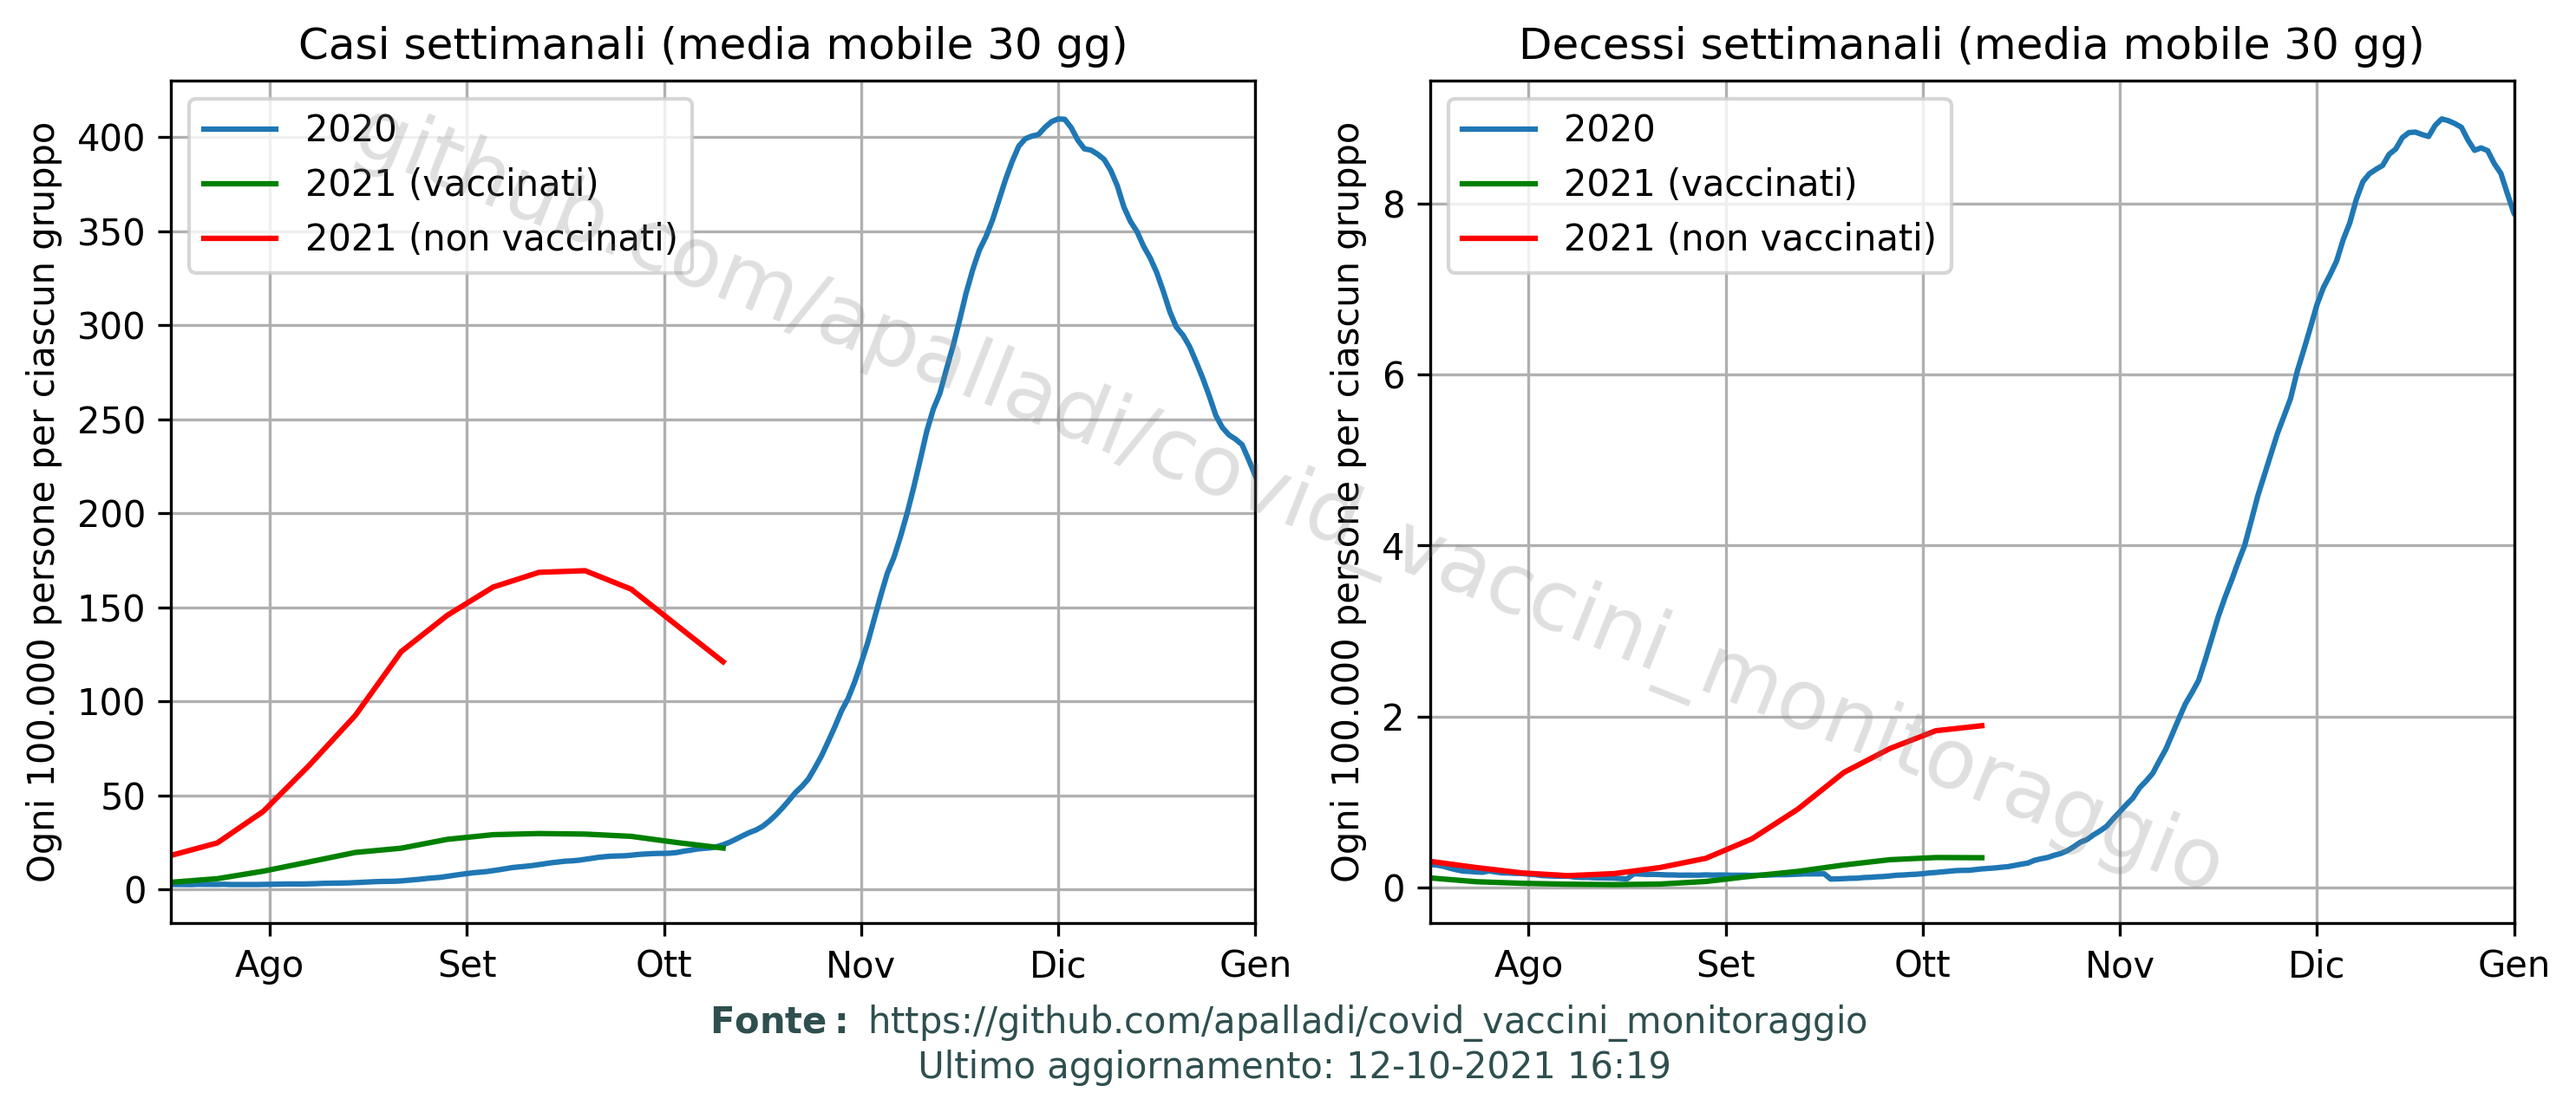
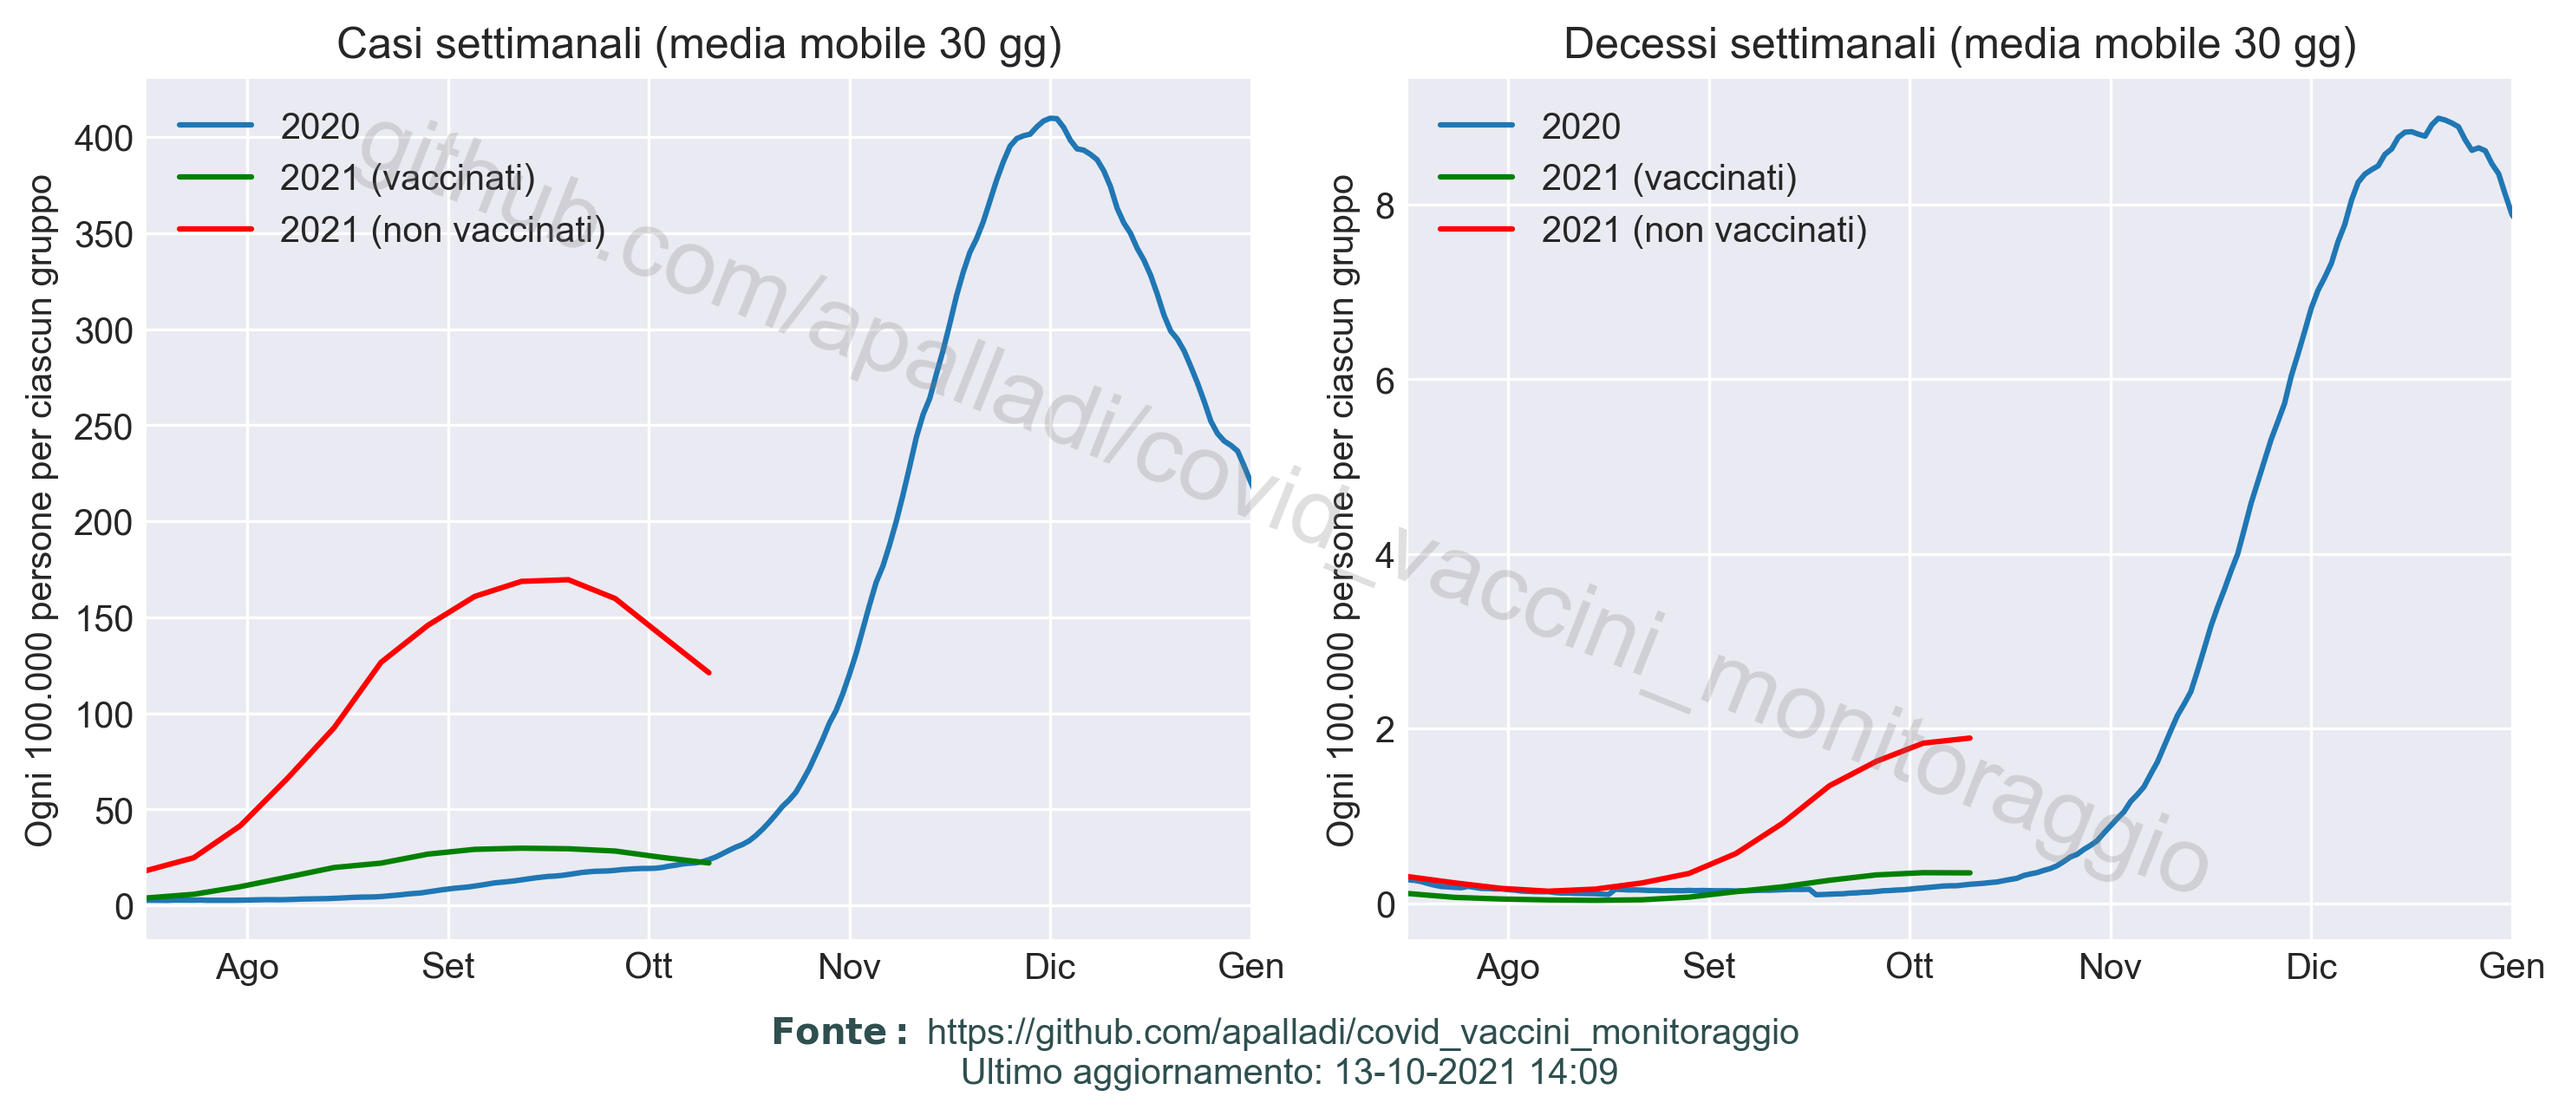
Corretto stile grafici confronti 2020-2021

diff --git a/scripts/confronto_2020_2021.py b/scripts/confronto_2020_2021.py
@@ -119,6 +119,9 @@ if __name__ == "__main__":
     scriptpath = path.dirname(path.realpath(__file__))
     chdir(scriptpath)
 
+    # Imposta stile grafici
+    plt.style.use("seaborn-dark")
+
     df_IT, df_assoluti, df_tassi = import_data()
     casi_2020, dec_2020 = get_epidemic_data_2020()
     casi_2021_vacc, casi_2021_novacc, dec_2021_vacc, dec_2021_novacc = get_epidemic_data_2021()  # noqa: E501
